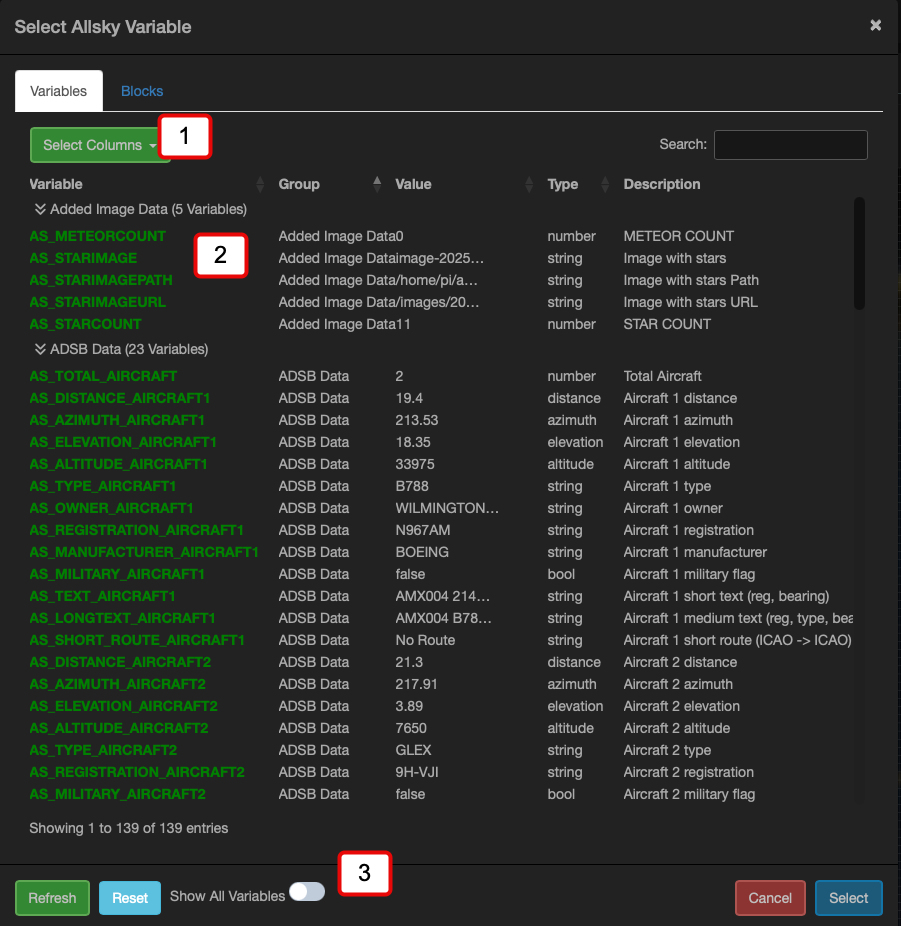
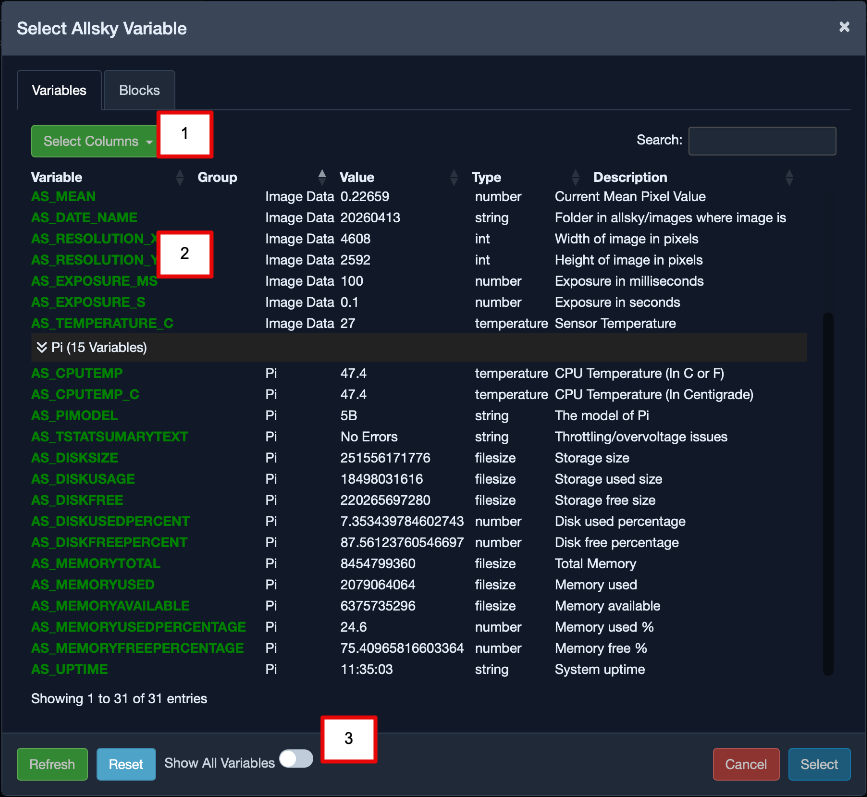
Small fix for variable manager css

Changed region(s): [[0.0, 0.0, 1.0, 1.0], [0.2803, 0.1807, 0.3737, 0.2108], [0.5917, 0.1807, 0.654, 0.2108]]

diff --git a/html/css/allsky.css b/html/css/allsky.css
@@ -4487,11 +4487,7 @@ body.dark .as-grid-bg {
 /** Variable Manager **/
 .as-variable-list .dtrg-group td{
 	padding: 5px;
-	background: #e0e0e0
-}
-
-.dark .as-variable-list .dtrg-group td{
-	background: #222
+	background: var(--bs3-modal-header-bg);
 }
 
 .dark .as-variable-has-value {
